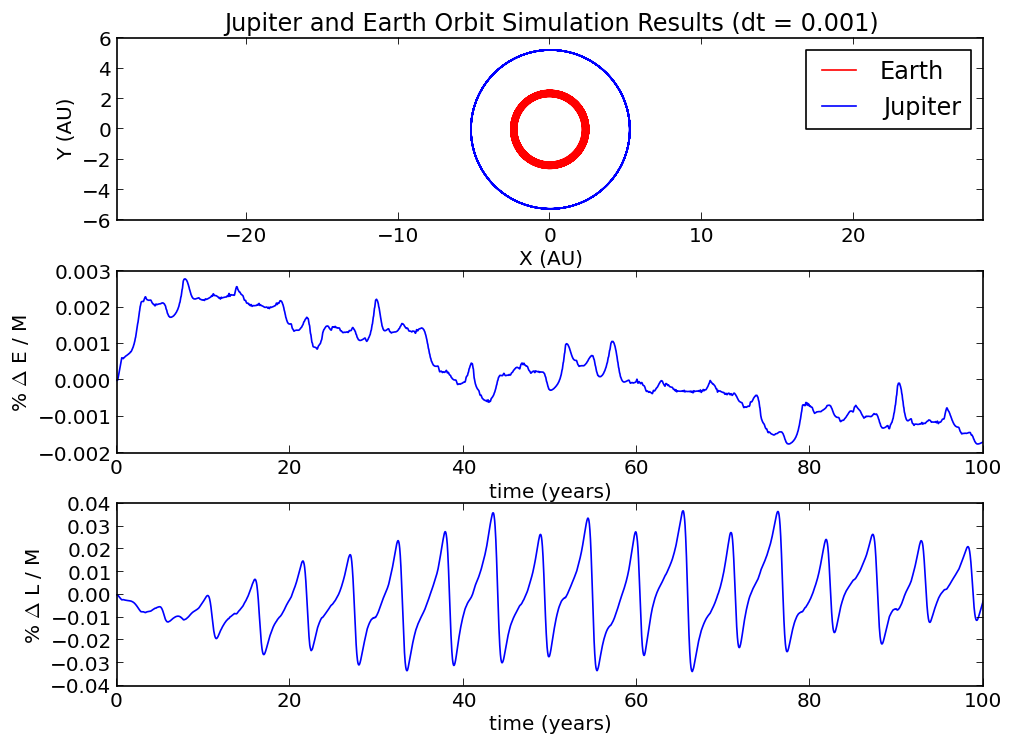
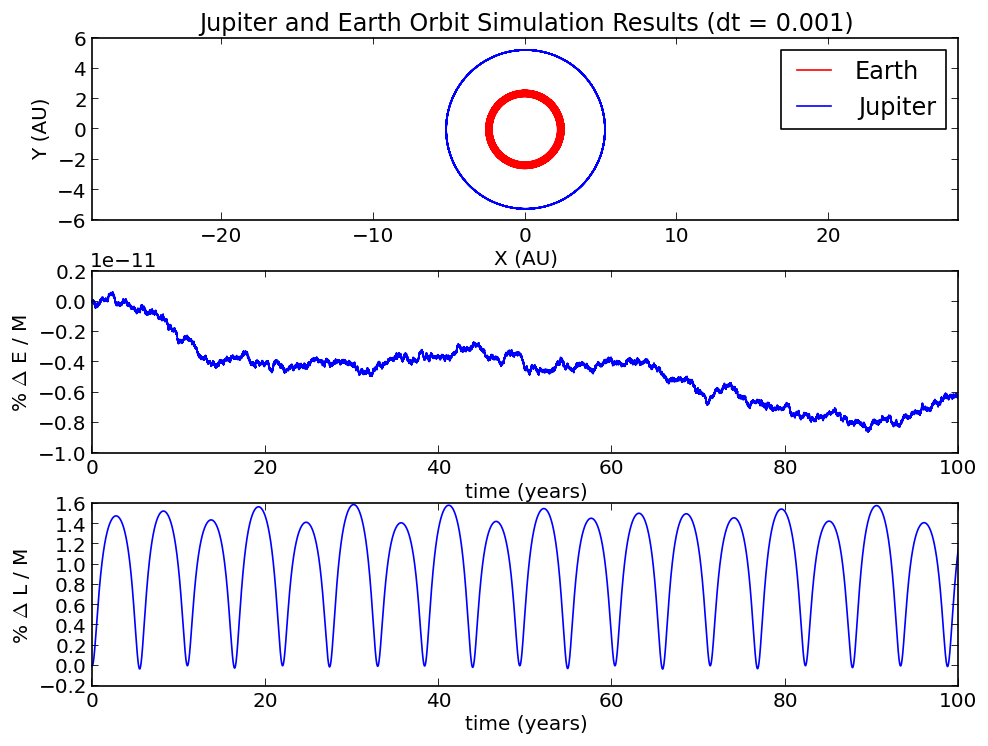
python ode now uses the runge kutta method dopri5

diff --git a/Python-ODE-Int-NBody/two_planets.py b/Python-ODE-Int-NBody/two_planets.py
@@ -21,7 +21,7 @@ def main():
     # Simulate the two planets using the scipy integrator
     init_cond = two_planets_initial_cond()
     intgr = scint.ode(two_planets)
-    intgr.set_integrator('vode', atol=0.00001, rtol=0.00001)
+    intgr.set_integrator('dopri5', method = 'adams', atol=0.000001, rtol=0.000001)
     intgr.set_initial_value(init_cond, t_0)
     times = np.arange(t_0, t_max, dt)
     sim_d = [init_cond]
@@ -47,8 +47,8 @@ def main():
     sim_perde = []
     sim_perdam = []
     for i in range(0, sim_d.shape[0]):
-        sim_perde.append(per_diff(two_planets_energy(sim_d[i]), two_planets_energy(sim_c[i])))
-        sim_perdam.append(per_diff(two_planets_angular_momentum(sim_d[i]), two_planets_angular_momentum(sim_c[i])))
+        sim_perde.append(per_diff(two_planets_energy(sim_d[i]), two_planets_energy(sim_d[0])))
+        sim_perdam.append(per_diff(two_planets_angular_momentum(sim_d[i]), two_planets_angular_momentum(sim_d[0])))
     
     # Plot 
     sim_perde = np.array(sim_perde)
